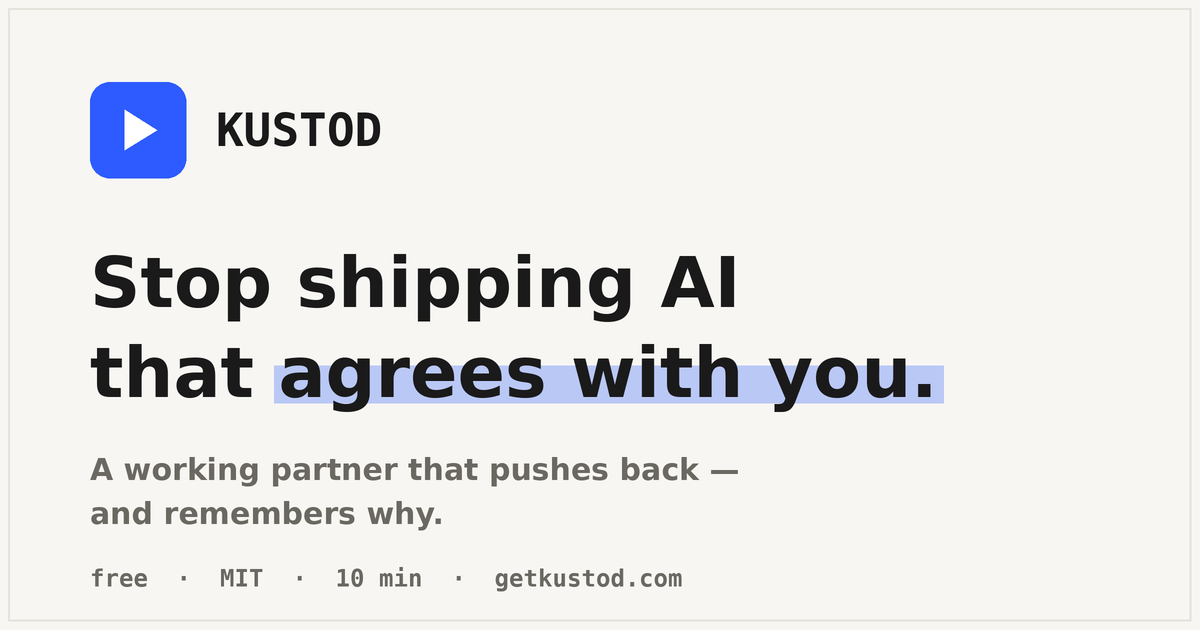
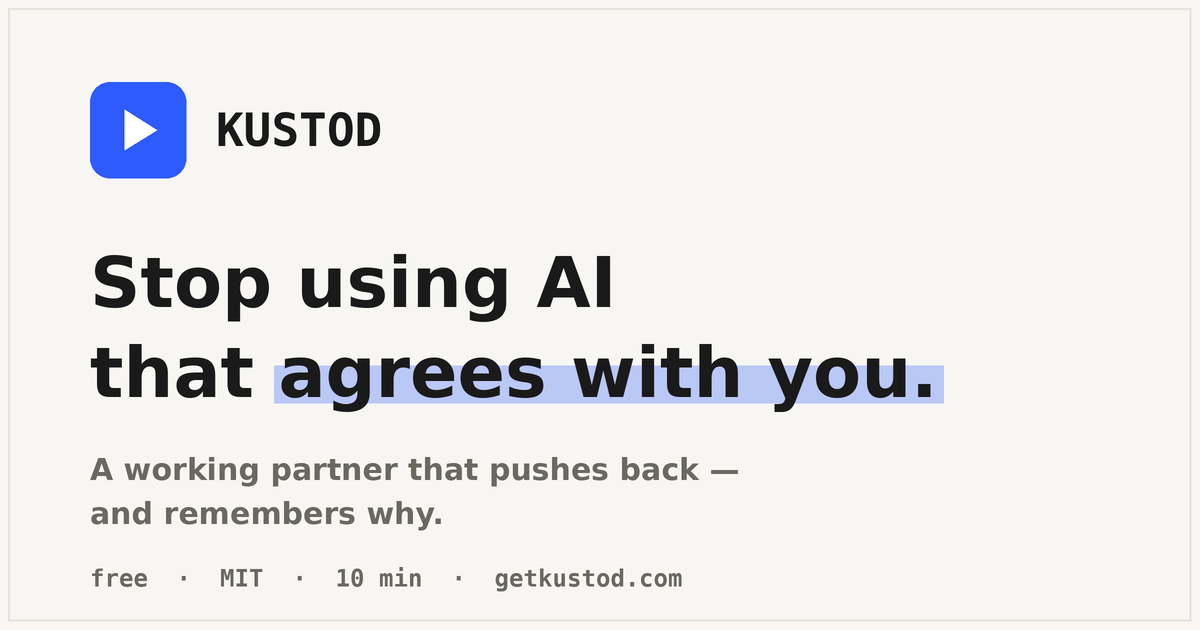
Reword hero: 'shipping' -> 'using' (EN + CZ + og-image)
Universal phrasing that fits the non-technical positioning.
EN hero + og:image:alt, CZ hero ('posílat' -> 'používat') + og:image:alt,
and regenerated og-image.png to match.

https://claude.ai/code/session_01NiDX3Upf3pN8pEu7G1YfWo

Changed region(s): [[0.2467, 0.3921, 0.5242, 0.5127], [0.555, 0.3921, 0.6167, 0.5127]]

diff --git a/cs/index.html b/cs/index.html
@@ -36,7 +36,7 @@
 <meta property="og:image" content="https://getkustod.com/og-image.png">
 <meta property="og:image:width" content="1200">
 <meta property="og:image:height" content="630">
-<meta property="og:image:alt" content="KUSTOD — přestaň posílat AI, která ti dává za pravdu.">
+<meta property="og:image:alt" content="KUSTOD — přestaň používat AI, která ti dává za pravdu.">
 <meta name="twitter:card" content="summary_large_image">
 <meta name="twitter:title" content="KUSTOD — pracovní parťák, který si stojí za svým">
 <meta name="twitter:description" content="Z jakékoli chatovací AI udělej parťáka, co ti oponuje a pamatuje si tě. Zdarma, jedna stránka, 10 minut.">
@@ -77,7 +77,7 @@
 <!-- 1 — HERO -->
 <section class="hero" id="main">
   <div class="container">
-    <h1>Přestaň posílat AI, která ti <span class="mark">dává za pravdu.</span></h1>
+    <h1>Přestaň používat AI, která ti <span class="mark">dává za pravdu.</span></h1>
     <p class="hero-sub">Pracovní parťák, který si stojí za svým — a pamatuje proč.</p>
     <p class="hero-micro mono">
       10 minut <span class="dot">·</span> funguje v AI, kterou už používáš <span class="dot">·</span> zdarma <span class="dot">·</span> jedna stránka

diff --git a/index.html b/index.html
@@ -36,7 +36,7 @@
 <meta property="og:image" content="https://getkustod.com/og-image.png">
 <meta property="og:image:width" content="1200">
 <meta property="og:image:height" content="630">
-<meta property="og:image:alt" content="KUSTOD — stop shipping AI that agrees with you.">
+<meta property="og:image:alt" content="KUSTOD — stop using AI that agrees with you.">
 <meta name="twitter:card" content="summary_large_image">
 <meta name="twitter:title" content="KUSTOD — a working partner that pushes back">
 <meta name="twitter:description" content="Turn any chat AI into a partner that challenges you and remembers you. Free, one page, 10 min.">
@@ -76,7 +76,7 @@
 <!-- 1 — HERO -->
 <section class="hero" id="main">
   <div class="container">
-    <h1>Stop shipping AI that <span class="mark">agrees with you.</span></h1>
+    <h1>Stop using AI that <span class="mark">agrees with you.</span></h1>
     <p class="hero-sub">A working partner that pushes back — and remembers why.</p>
     <p class="hero-micro mono">
       10 min <span class="dot">·</span> works in the AI you already use <span class="dot">·</span> free <span class="dot">·</span> one page